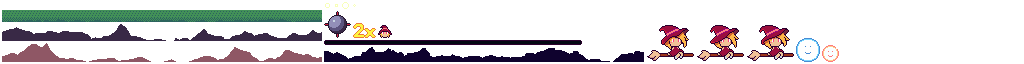
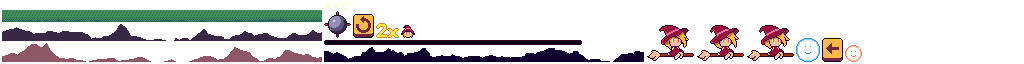
buttons

Changed region(s): [[0.7812, 0.5938, 0.8438, 0.9688], [0.3438, 0.2188, 0.4062, 0.5938]]

diff --git a/core/src/main/java/com/distraction/ttd2024/screen/PlayScreen.java b/core/src/main/java/com/distraction/ttd2024/screen/PlayScreen.java
@@ -8,6 +8,7 @@ import com.distraction.ttd2024.Data;
 import com.distraction.ttd2024.UI;
 import com.distraction.ttd2024.entity.Background;
 import com.distraction.ttd2024.entity.Collectable;
+import com.distraction.ttd2024.entity.Entity;
 import com.distraction.ttd2024.entity.FontEntity;
 import com.distraction.ttd2024.entity.Particle;
 import com.distraction.ttd2024.entity.Player;
@@ -30,6 +31,10 @@ public class PlayScreen extends Screen {
 
     private float bubbleTime;
     private float collectSoundTime;
+
+    // buttons
+    private Entity backButton;
+    private Entity restartButton;
 
     // replay and save
     private FontEntity replayFont;
@@ -67,6 +72,11 @@ public class PlayScreen extends Screen {
         particles = new ArrayList<>();
 
         ui = new UI(context, player, TOTAL_DISTANCE);
+
+        backButton = new Entity(context, Constants.WIDTH - 39, Constants.HEIGHT - 15);
+        backButton.setImage(context.getImage("back"));
+        restartButton = new Entity(context, Constants.WIDTH - 14, Constants.HEIGHT - 15);
+        restartButton.setImage(context.getImage("restart"));
     }
 
     private void hit() {
@@ -111,13 +121,18 @@ public class PlayScreen extends Screen {
         tick++;
 
         if (!ignoreInput) {
-            if (Gdx.input.isKeyPressed(Input.Keys.ESCAPE)) {
-                ignoreInput = true;
-                context.sm.push(new CheckeredTransitionScreen(context, new PlayScreen(context)));
-            }
             if (Gdx.input.isKeyPressed(Input.Keys.S)) {
                 ignoreInput = true;
                 context.sm.push(new CheckeredTransitionScreen(context, new ScoreScreen(context, player.score, save)));
+            }
+
+            if (Gdx.input.justTouched()) {
+                unproject();
+                if (restartButton.contains(m.x, m.y)) {
+                    ignoreInput = true;
+                    context.data.reset();
+                    context.sm.push(new CheckeredTransitionScreen(context, new PlayScreen(context)));
+                }
             }
 
             boolean up = Gdx.input.isKeyPressed(Input.Keys.UP);
@@ -221,6 +236,8 @@ public class PlayScreen extends Screen {
 
         sb.setProjectionMatrix(uiCam.combined);
         ui.render(sb);
+        backButton.render(sb);
+        restartButton.render(sb);
 
         if (isReplay) {
             replayFont.render(sb);

diff --git a/core/src/main/java/com/distraction/ttd2024/Main.java b/core/src/main/java/com/distraction/ttd2024/Main.java
@@ -5,6 +5,7 @@ import com.badlogic.gdx.Gdx;
 import com.badlogic.gdx.utils.ScreenUtils;
 import com.distraction.ttd2024.gj.GameJoltClient;
 import com.distraction.ttd2024.screen.PlayScreen;
+import com.distraction.ttd2024.screen.TitleScreen;
 
 /** {@link com.badlogic.gdx.ApplicationListener} implementation shared by all platforms. */
 public class Main extends ApplicationAdapter {
@@ -23,8 +24,8 @@ public class Main extends ApplicationAdapter {
         client.initialize(Constants.APP_ID, Constants.API_KEY);
         context.client = client;
 
-        context.sm.push(new PlayScreen(context, new int[] {85, 1, 96, 0, 115, 3, 131, 2, 157, 3, 164, 2, 188, 1, 198, 0, 212, 3, 228, 2, 231, 1, 265, 0, 286, 3, 321, 2, 322, 7, 324, 1, 342, 6, 359, 5, 361, 0, 377, 3, 379, 4, 404, 7, 405, 2, 424, 1, 425, 6, 450, 0, 451, 3, 486, 2, 487, 1, 519, 0, 521, 3, 538, 7, 549, 2, 557, 1, 558, 6, 572, 5, 576, 0, 586, 3, 590, 4, 596, 5, 607, 4, 610, 2, 621, 7, 623, 1, 625, 6, 637, 0, 658, 1, 675, 0, 677, 7, 697, 6, 701, 1, 706, 5, 711, 0, 720, 4, 727, 3, 736, 2, 747, 1, 762, 0, 771, 3, 787, 2, 796, 3, 807, 2, 814, 7, 823, 6, 835, 3, 848, 2, 867, 1, 894, 0, 909, 3, 939, 2, 940, 1, 949, 0, 986, 3, 993, 2, 1006, 1, 1035, 0, 1036, 3, 1070, 2, 1082, 1, 1090, 0, 1112, 3, 1120, 2, 1123, 1, 1140, 0}));
-//        context.sm.push(new PlayScreen(context));
+//        context.sm.push(new PlayScreen(context, new int[] {85, 1, 96, 0, 115, 3, 131, 2, 157, 3, 164, 2, 188, 1, 198, 0, 212, 3, 228, 2, 231, 1, 265, 0, 286, 3, 321, 2, 322, 7, 324, 1, 342, 6, 359, 5, 361, 0, 377, 3, 379, 4, 404, 7, 405, 2, 424, 1, 425, 6, 450, 0, 451, 3, 486, 2, 487, 1, 519, 0, 521, 3, 538, 7, 549, 2, 557, 1, 558, 6, 572, 5, 576, 0, 586, 3, 590, 4, 596, 5, 607, 4, 610, 2, 621, 7, 623, 1, 625, 6, 637, 0, 658, 1, 675, 0, 677, 7, 697, 6, 701, 1, 706, 5, 711, 0, 720, 4, 727, 3, 736, 2, 747, 1, 762, 0, 771, 3, 787, 2, 796, 3, 807, 2, 814, 7, 823, 6, 835, 3, 848, 2, 867, 1, 894, 0, 909, 3, 939, 2, 940, 1, 949, 0, 986, 3, 993, 2, 1006, 1, 1035, 0, 1036, 3, 1070, 2, 1082, 1, 1090, 0, 1112, 3, 1120, 2, 1123, 1, 1140, 0}));
+        context.sm.push(new TitleScreen(context));
     }
 
     @Override

diff --git a/core/src/main/java/com/distraction/ttd2024/screen/Screen.java b/core/src/main/java/com/distraction/ttd2024/screen/Screen.java
@@ -1,8 +1,10 @@
 package com.distraction.ttd2024.screen;
 
+import com.badlogic.gdx.Gdx;
 import com.badlogic.gdx.graphics.OrthographicCamera;
 import com.badlogic.gdx.graphics.g2d.SpriteBatch;
 import com.badlogic.gdx.graphics.g2d.TextureRegion;
+import com.badlogic.gdx.math.Vector3;
 import com.distraction.ttd2024.Constants;
 import com.distraction.ttd2024.Context;
 
@@ -11,8 +13,9 @@ public abstract class Screen {
     protected Context context;
     protected SpriteBatch sb;
 
-    protected OrthographicCamera cam;
-    protected OrthographicCamera uiCam;
+    protected final OrthographicCamera cam;
+    protected final OrthographicCamera uiCam;
+    protected final Vector3 m;
 
     protected boolean ignoreInput;
 
@@ -26,8 +29,14 @@ public abstract class Screen {
         cam.setToOrtho(false, Constants.WIDTH, Constants.HEIGHT);
         uiCam = new OrthographicCamera();
         uiCam.setToOrtho(false, Constants.WIDTH, Constants.HEIGHT);
+        m = new Vector3();
 
         pixel = context.getPixel();
+    }
+
+    protected void unproject() {
+        m.set(Gdx.input.getX(), Gdx.input.getY(), 0);
+        uiCam.unproject(m);
     }
 
     public abstract void update(float dt);

diff --git a/core/src/main/java/com/distraction/ttd2024/entity/Entity.java b/core/src/main/java/com/distraction/ttd2024/entity/Entity.java
@@ -4,6 +4,7 @@ import com.badlogic.gdx.graphics.g2d.SpriteBatch;
 import com.badlogic.gdx.graphics.g2d.TextureRegion;
 import com.distraction.ttd2024.Animation;
 import com.distraction.ttd2024.Context;
+import com.distraction.ttd2024.Utils;
 
 public class Entity {
 
@@ -21,15 +22,13 @@ public class Entity {
     protected TextureRegion image;
 
     public Entity(Context context) {
-        this(context, 0, 0, 0, 0);
+        this(context, 0, 0);
     }
 
-    public Entity(Context context, float x, float y, float w, float h) {
+    public Entity(Context context, float x, float y) {
         this.context = context;
         this.x = x;
         this.y = y;
-        this.w = w;
-        this.h = h;
     }
 
     public void setImage(TextureRegion image) {
@@ -57,6 +56,7 @@ public class Entity {
     }
 
     public void render(SpriteBatch sb) {
+        Utils.drawCentered(sb, image, x, y);
     }
 
     @Override

diff --git a/core/src/main/java/com/distraction/ttd2024/screen/TitleScreen.java b/core/src/main/java/com/distraction/ttd2024/screen/TitleScreen.java
@@ -1,0 +1,24 @@
+package com.distraction.ttd2024.screen;
+
+import com.distraction.ttd2024.Context;
+
+public class TitleScreen extends Screen {
+
+    public TitleScreen(Context context) {
+        super(context);
+    }
+
+    @Override
+    public void update(float dt) {
+        if (!ignoreInput) {
+            ignoreInput = true;
+            context.data.reset();
+            context.sm.push(new CheckeredTransitionScreen(context, new PlayScreen(context)));
+        }
+    }
+
+    @Override
+    public void render() {
+
+    }
+}
